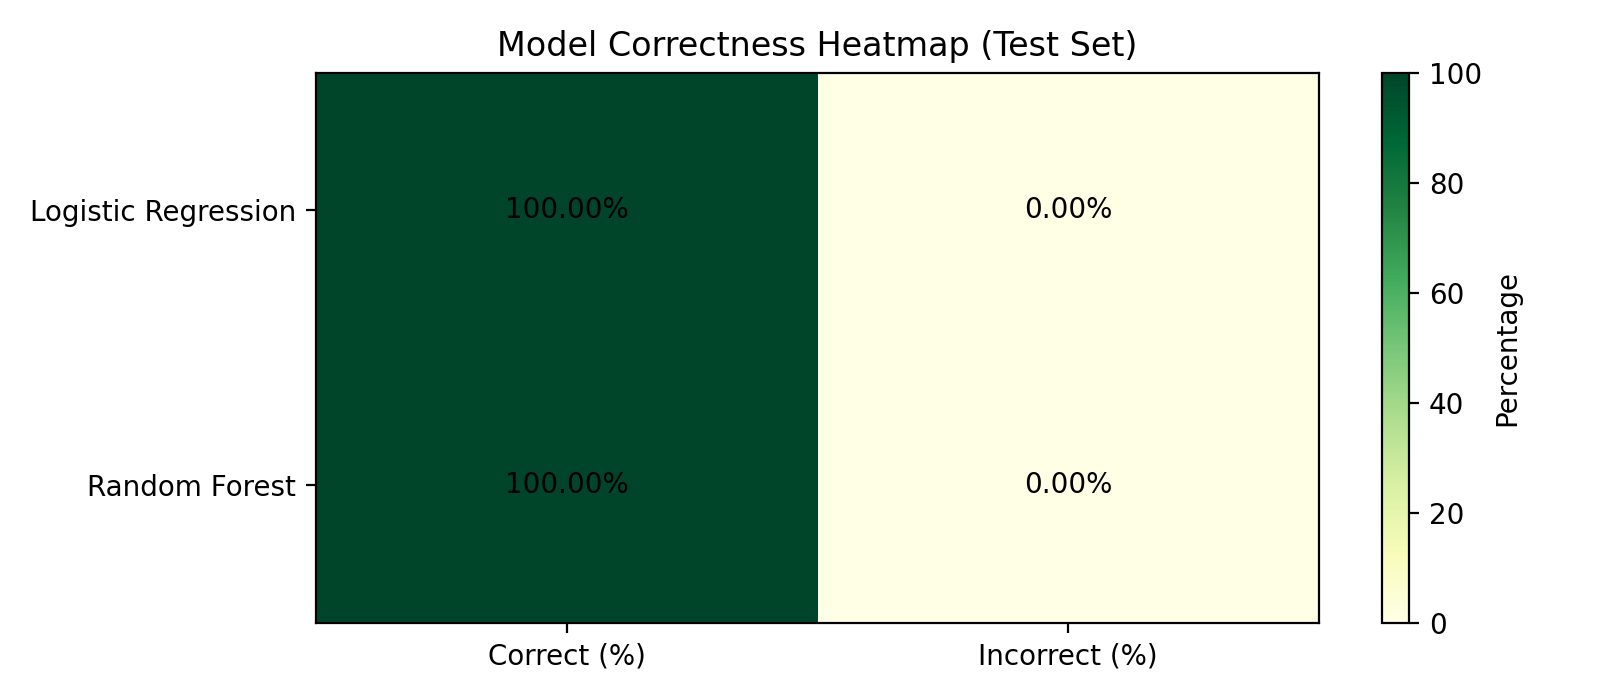
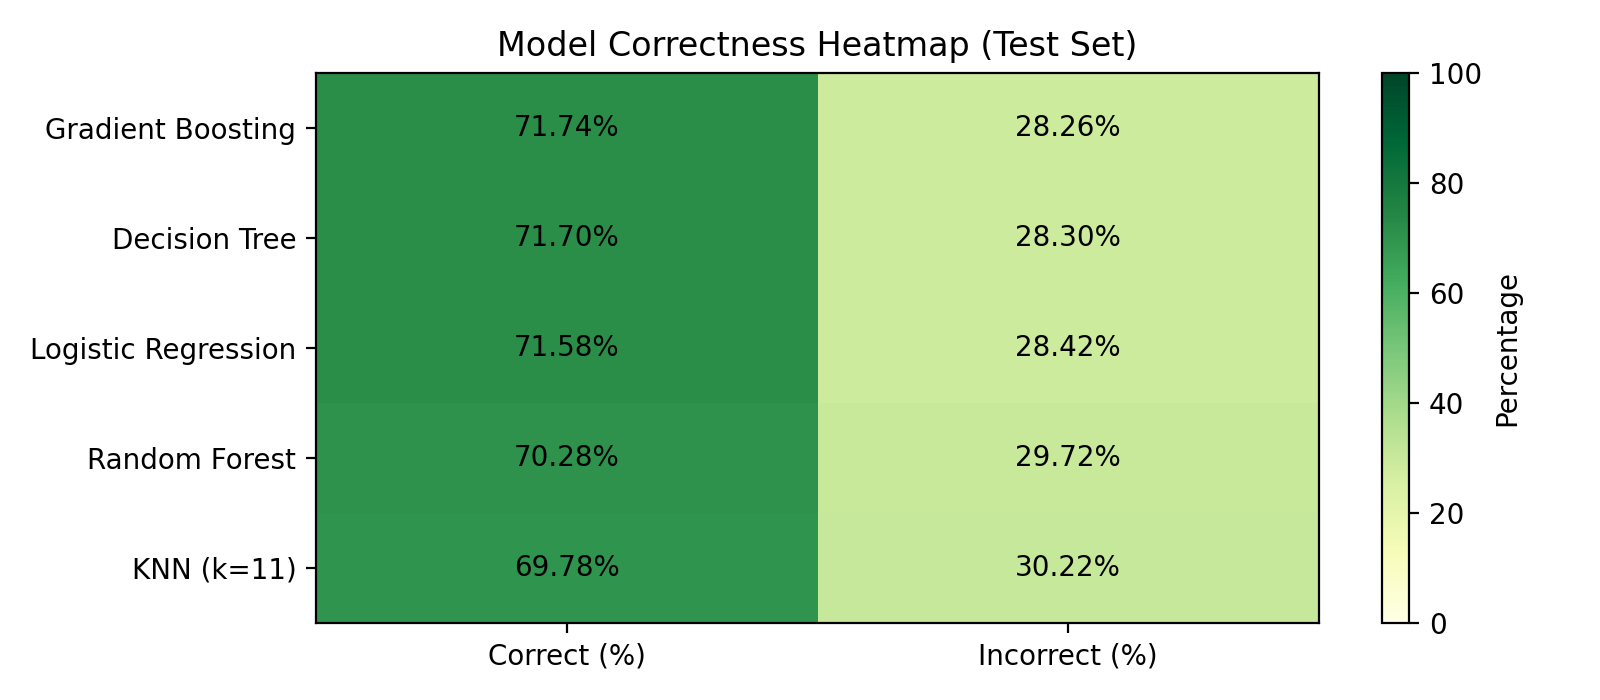
Adding more models to compare
Adding more models to give a better comparison on which model is performing the best. Adjusted the heatmap as well (might change to a different visualization).

diff --git a/gamewinner.py b/gamewinner.py
@@ -8,6 +8,9 @@ from sklearn.metrics import accuracy_score, f1_score, roc_auc_score
 
 from sklearn.linear_model import LogisticRegression
 from sklearn.ensemble import RandomForestClassifier
+from sklearn.neighbors import KNeighborsClassifier
+from sklearn.tree import DecisionTreeClassifier
+from sklearn.ensemble import GradientBoostingClassifier
 
 
 def to_snake_case(name: str) -> str:
@@ -60,82 +63,125 @@ matchups["win_team1"] = matchups["win_team1"].astype(int)
 # # Assume win column exists (1 = win, 0 = loss)
 y = matchups["win_team1"]
 
-# Feature Engineering
-# Example: point difference between teams
-matchups["point_diff"] = (
-    matchups["team_score_team1"] - matchups["team_score_team2"]
+# Keep one row per game (team1 is the home team) to avoid mirrored duplicates.
+matchups["home_team1"] = pd.to_numeric(matchups["home_team1"], errors="coerce")
+matchups = matchups[matchups["home_team1"] == 1].copy()
+
+# Pre-game feature engineering (avoid post-game leakage like scores/box score stats).
+for col in [
+    "season_wins_team1",
+    "season_wins_team2",
+    "season_losses_team1",
+    "season_losses_team2",
+]:
+    matchups[col] = pd.to_numeric(matchups[col], errors="coerce")
+
+matchups["season_wins_diff"] = (
+    matchups["season_wins_team1"] - matchups["season_wins_team2"]
+)
+matchups["season_losses_diff"] = (
+    matchups["season_losses_team1"] - matchups["season_losses_team2"]
 )
 
-# You can add more differences:
-# rebounds, assists, etc.
-matchups["reb_diff"] = (
-    matchups["rebounds_total_team1"] - matchups["rebounds_total_team2"]
-)
+matchups["win_pct_team1"] = matchups["season_wins_team1"] / (
+    matchups["season_wins_team1"] + matchups["season_losses_team1"]
+).replace(0, pd.NA)
+matchups["win_pct_team2"] = matchups["season_wins_team2"] / (
+    matchups["season_wins_team2"] + matchups["season_losses_team2"]
+).replace(0, pd.NA)
+matchups["win_pct_diff"] = matchups["win_pct_team1"] - matchups["win_pct_team2"]
 
-# Select Features
+# Select pre-game features only.
 features = [
-    "point_diff",
-    "reb_diff",
-    # add more as needed
+    "season_wins_diff",
+    "season_losses_diff",
+    "win_pct_diff",
 ]
 
 matchups[features] = matchups[features].apply(pd.to_numeric, errors="coerce")
 model_df = matchups.dropna(subset=features + ["win_team1"]).copy()
 
-X = model_df[features]
-y = model_df["win_team1"]
-
-# Train/Test Split
-X_train, X_test, y_train, y_test = train_test_split(
-    X, y, test_size=0.2, random_state=42
+# Split by game_id so no game appears in both train and test sets.
+game_ids = model_df["game_id"].drop_duplicates()
+train_game_ids, test_game_ids = train_test_split(
+    game_ids, test_size=0.2, random_state=42
 )
+
+train_df = model_df[model_df["game_id"].isin(train_game_ids)].copy()
+test_df = model_df[model_df["game_id"].isin(test_game_ids)].copy()
+
+X_train = train_df[features]
+y_train = train_df["win_team1"]
+X_test = test_df[features]
+y_test = test_df["win_team1"]
 
 # Scaling
 scaler = StandardScaler()
 X_train_scaled = scaler.fit_transform(X_train)
 X_test_scaled = scaler.transform(X_test)
 
-# Train Models
-lr = LogisticRegression()
-lr.fit(X_train_scaled, y_train)
+# Train and compare models
+models = [
+    ("Logistic Regression", LogisticRegression(max_iter=1000), True),
+    ("Random Forest", RandomForestClassifier(n_estimators=200, random_state=42), False),
+    ("KNN (k=11)", KNeighborsClassifier(n_neighbors=11), True),
+    ("Decision Tree", DecisionTreeClassifier(max_depth=6, random_state=42), False),
+    (
+        "Gradient Boosting",
+        GradientBoostingClassifier(random_state=42),
+        False,
+    ),
+]
 
-rf = RandomForestClassifier(n_estimators=100, random_state=42)
-rf.fit(X_train, y_train)
+results = []
+predictions = {}
 
-# Evaluation
-def evaluate(name, model, X_test, y_test):
-    y_pred = model.predict(X_test)
+for name, model, use_scaled in models:
+    X_tr = X_train_scaled if use_scaled else X_train
+    X_te = X_test_scaled if use_scaled else X_test
+
+    model.fit(X_tr, y_train)
+    y_pred = model.predict(X_te)
 
     if hasattr(model, "predict_proba"):
-        y_prob = model.predict_proba(X_test)[:, 1]
+        y_prob = model.predict_proba(X_te)[:, 1]
     else:
         y_prob = y_pred
 
+    acc = accuracy_score(y_test, y_pred)
+    f1 = f1_score(y_test, y_pred)
+    roc = roc_auc_score(y_test, y_prob)
+
     print(f"\n{name}")
-    print("Accuracy:", accuracy_score(y_test, y_pred))
-    print("F1:", f1_score(y_test, y_pred))
-    print("ROC-AUC:", roc_auc_score(y_test, y_prob))
+    print("Accuracy:", acc)
+    print("F1:", f1)
+    print("ROC-AUC:", roc)
 
+    results.append(
+        {
+            "Model": name,
+            "Accuracy": acc,
+            "F1": f1,
+            "ROC-AUC": roc,
+        }
+    )
+    predictions[name] = y_pred
 
-evaluate("Logistic Regression", lr, X_test_scaled, y_test)
-evaluate("Random Forest", rf, X_test, y_test)
+results_df = pd.DataFrame(results).sort_values("Accuracy", ascending=False)
+print("\nModel comparison:")
+print(results_df.to_string(index=False))
 
 # Heatmap: model correctness on the test set
-lr_pred = lr.predict(X_test_scaled)
-rf_pred = rf.predict(X_test)
-
 correctness_pct = pd.DataFrame(
     {
         "Correct (%)": [
-            100 * np.mean(lr_pred == y_test),
-            100 * np.mean(rf_pred == y_test),
+            100 * np.mean(predictions[name] == y_test) for name in results_df["Model"]
         ],
         "Incorrect (%)": [
-            100 * np.mean(lr_pred != y_test),
-            100 * np.mean(rf_pred != y_test),
+            100 * np.mean(predictions[name] != y_test) for name in results_df["Model"]
         ],
     },
-    index=["Logistic Regression", "Random Forest"],
+    index=results_df["Model"],
 )
 
 fig, ax = plt.subplots(figsize=(8, 3.5))
